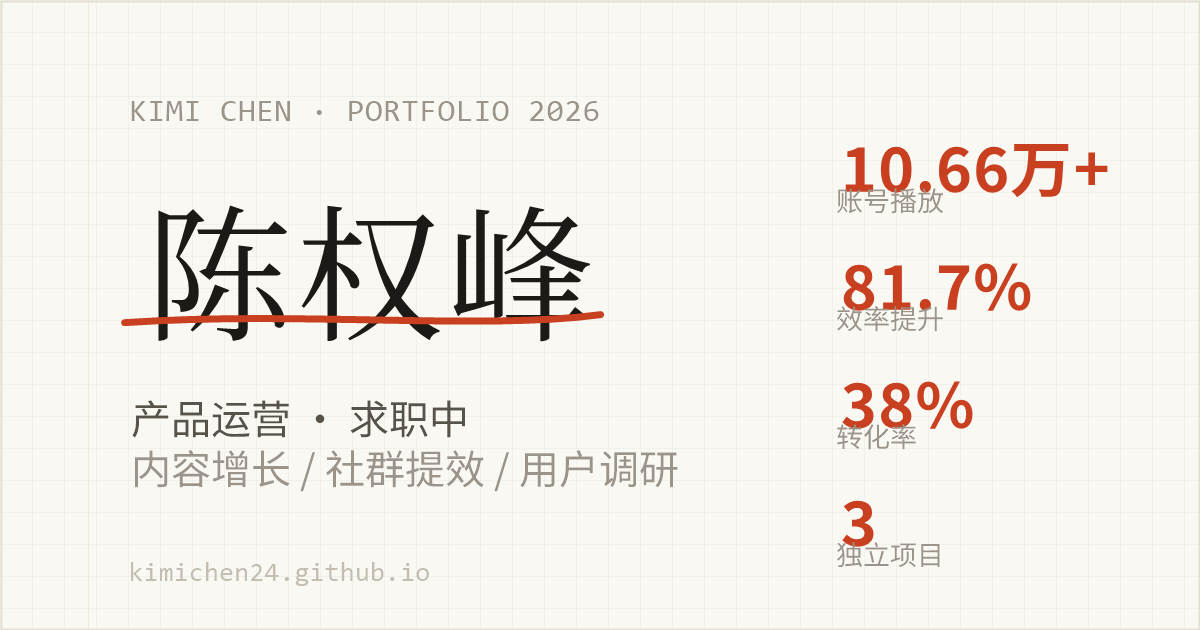
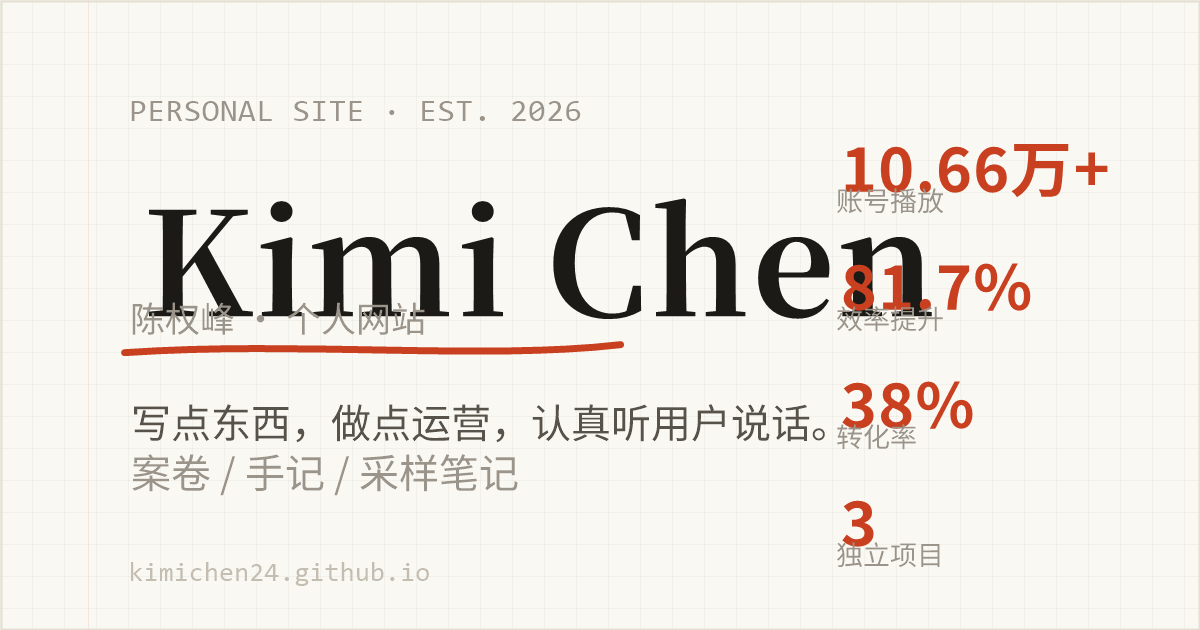
收尾：Now 条更新 + 数字降注脚 + 简介去简历腔 + og 图换 Kimi Chen
- 「此刻 Now」更新：抖音账号改为每月固定更新（与实际节奏一致）；
  正在找改为「一段合适的产品运营实习 · 坐标不设限」
- 首页四个大数字降为注脚级横排（数字缩档+标签同行+细分隔线），
  宣言独占首屏视觉中心——个人站气质优先，数字为证
- About 简介重写：从面试答案体（结构化视角/框架验证）改为
  有细节有性格的自我介绍（着迷于「混乱如何变秩序」）
- og-cover.png 重制：Kimi Chen 大字 + 中文署名小字 +
  PERSONAL SITE · EST. 2026 眉标 + 宣言句，与首页完全一致
- 修复 gen_brand_assets.ps1 编码问题（BOM 转换导致 · 乱码）

Changed region(s): [[0.0925, 0.3016, 0.7708, 0.573], [0.0925, 0.6333, 0.6783, 0.7841], [0.0925, 0.1508, 0.4933, 0.2111]]

diff --git a/src/pages/Home.jsx b/src/pages/Home.jsx
@@ -5,23 +5,23 @@ import QuoteTicker from '../components/QuoteTicker'
 import SelfPortrait from '../components/SelfPortrait'
 import { useCountUp } from '../lib/reveal'
 
-/** 数据格 — 红笔重点：数字 + 落笔下划线 + 查证批注 */
+/** 数据点 — 横排注脚：红数字 + 红笔下划线 + 灰标签 */
 function Stat({ value, label, desc, delay }) {
   const ref = useRef(null)
   useCountUp(ref, value)
   return (
     <div className="relative">
-      <div
-        ref={ref}
-        className="font-mono text-[clamp(1.5rem,3.4vw,2.3rem)] font-semibold leading-none text-red"
-      >
-        {value}
+      <div className="flex items-baseline gap-2">
+        <span
+          ref={ref}
+          className="font-mono text-[clamp(1.2rem,2.6vw,1.6rem)] font-semibold leading-none text-red"
+        >
+          {value}
+        </span>
+        <span className="font-mono text-[11px] text-ink-mute">{label}</span>
       </div>
-      <RedUnderline delay={delay} className="-bottom-2.5 h-[7px]" />
-      <p className="mt-3.5 font-mono text-[10px] uppercase tracking-widewide text-ink-mute">
-        {label}
-        <span className="mt-0.5 block normal-case tracking-normal text-ink-faint">{desc}</span>
-      </p>
+      <RedUnderline delay={delay} className="-bottom-2 h-[6px]" />
+      <p className="mt-3 font-mono text-[10px] tracking-normal text-ink-faint">{desc}</p>
     </div>
   )
 }
@@ -74,14 +74,14 @@ export default function Home() {
             </a>
           </div>
 
-          {/* 数据速览 — 红笔批注的重点 */}
-          <div className="mt-16 sm:mt-20">
-            <div className="grid grid-cols-2 gap-x-6 gap-y-10 sm:grid-cols-4 sm:gap-x-10">
+          {/* 数字速览 — 降为注脚级横排：个人站气质优先，数字为证 */}
+          <div className="mt-16 border-t border-paper-line pt-7 sm:mt-20">
+            <div className="flex flex-wrap items-baseline gap-x-10 gap-y-4">
               {profile.stats.map((s, i) => (
                 <Stat key={s.label} value={s.value} label={s.label} desc={s.desc} delay={i * 150} />
               ))}
             </div>
-            <p className="mt-7">
+            <p className="mt-6">
               <MarginNote>每个数字背后，都有一份可以翻开的案卷</MarginNote>
             </p>
           </div>

diff --git a/src/data/content.js b/src/data/content.js
@@ -19,9 +19,9 @@ export const profile = {
   school: '南华大学船山学院 · 软件工程在读',
   honors: ['英语四级（CET-4）', '校级一等奖学金'],
   bio: [
-    '本科在读，主修软件工程；习惯用结构化视角拆解运营问题，先搭框架、再动手验证。',
-    '做过内容运营、社群运营和用户调研——本质是同一件事：在噪声里找信号，把信号变成动作。',
-    '熟练用 AI 贯穿物料、文案与数据分析全流程，单项目实现 81.7% 的效率提升。',
+    '软件工程在读，但大部分热情花在了运营上——做过音乐账号、管过二手交易群、访谈过 15 个豆包用户。',
+    '我着迷的事情只有一件：混乱的东西是怎么变得有秩序的。一条采样怎么变成新歌，一个刷屏的群怎么变成顺畅的交易，一堆抱怨怎么变成三个能动手改的 P0。',
+    'AI 是我的第二双手——初稿交给它跑，判断留给自己。这个网站本身就是「先做完，再做好」的产物。',
   ],
   social: [
     { platform: '邮箱', handle: 'kimichen224@163.com', url: 'mailto:kimichen224@163.com' },
@@ -41,9 +41,9 @@ export const profile = {
 // 首页「此刻」条的三行：会随生活更新，让站点保持呼吸。
 // 更新这里即可，页面无需改动。
 export const now = [
-  { label: '正在听', value: '采样歌单 —— 为下一期选题囤的老歌' },
-  { label: '正在做', value: '抖音采样解析账号 · 每周更新' },
-  { label: '正在找', value: '产品运营实习 / 校招 · 可即刻到岗' },
+  { label: '正在听', value: '采样歌单 —— 为下期选题囤的老歌' },
+  { label: '正在做', value: '抖音采样解析账号 · 每月固定更新' },
+  { label: '正在找', value: '一段合适的产品运营实习 · 坐标不设限' },
 ]
 
 // ── 采样笔记 ──
